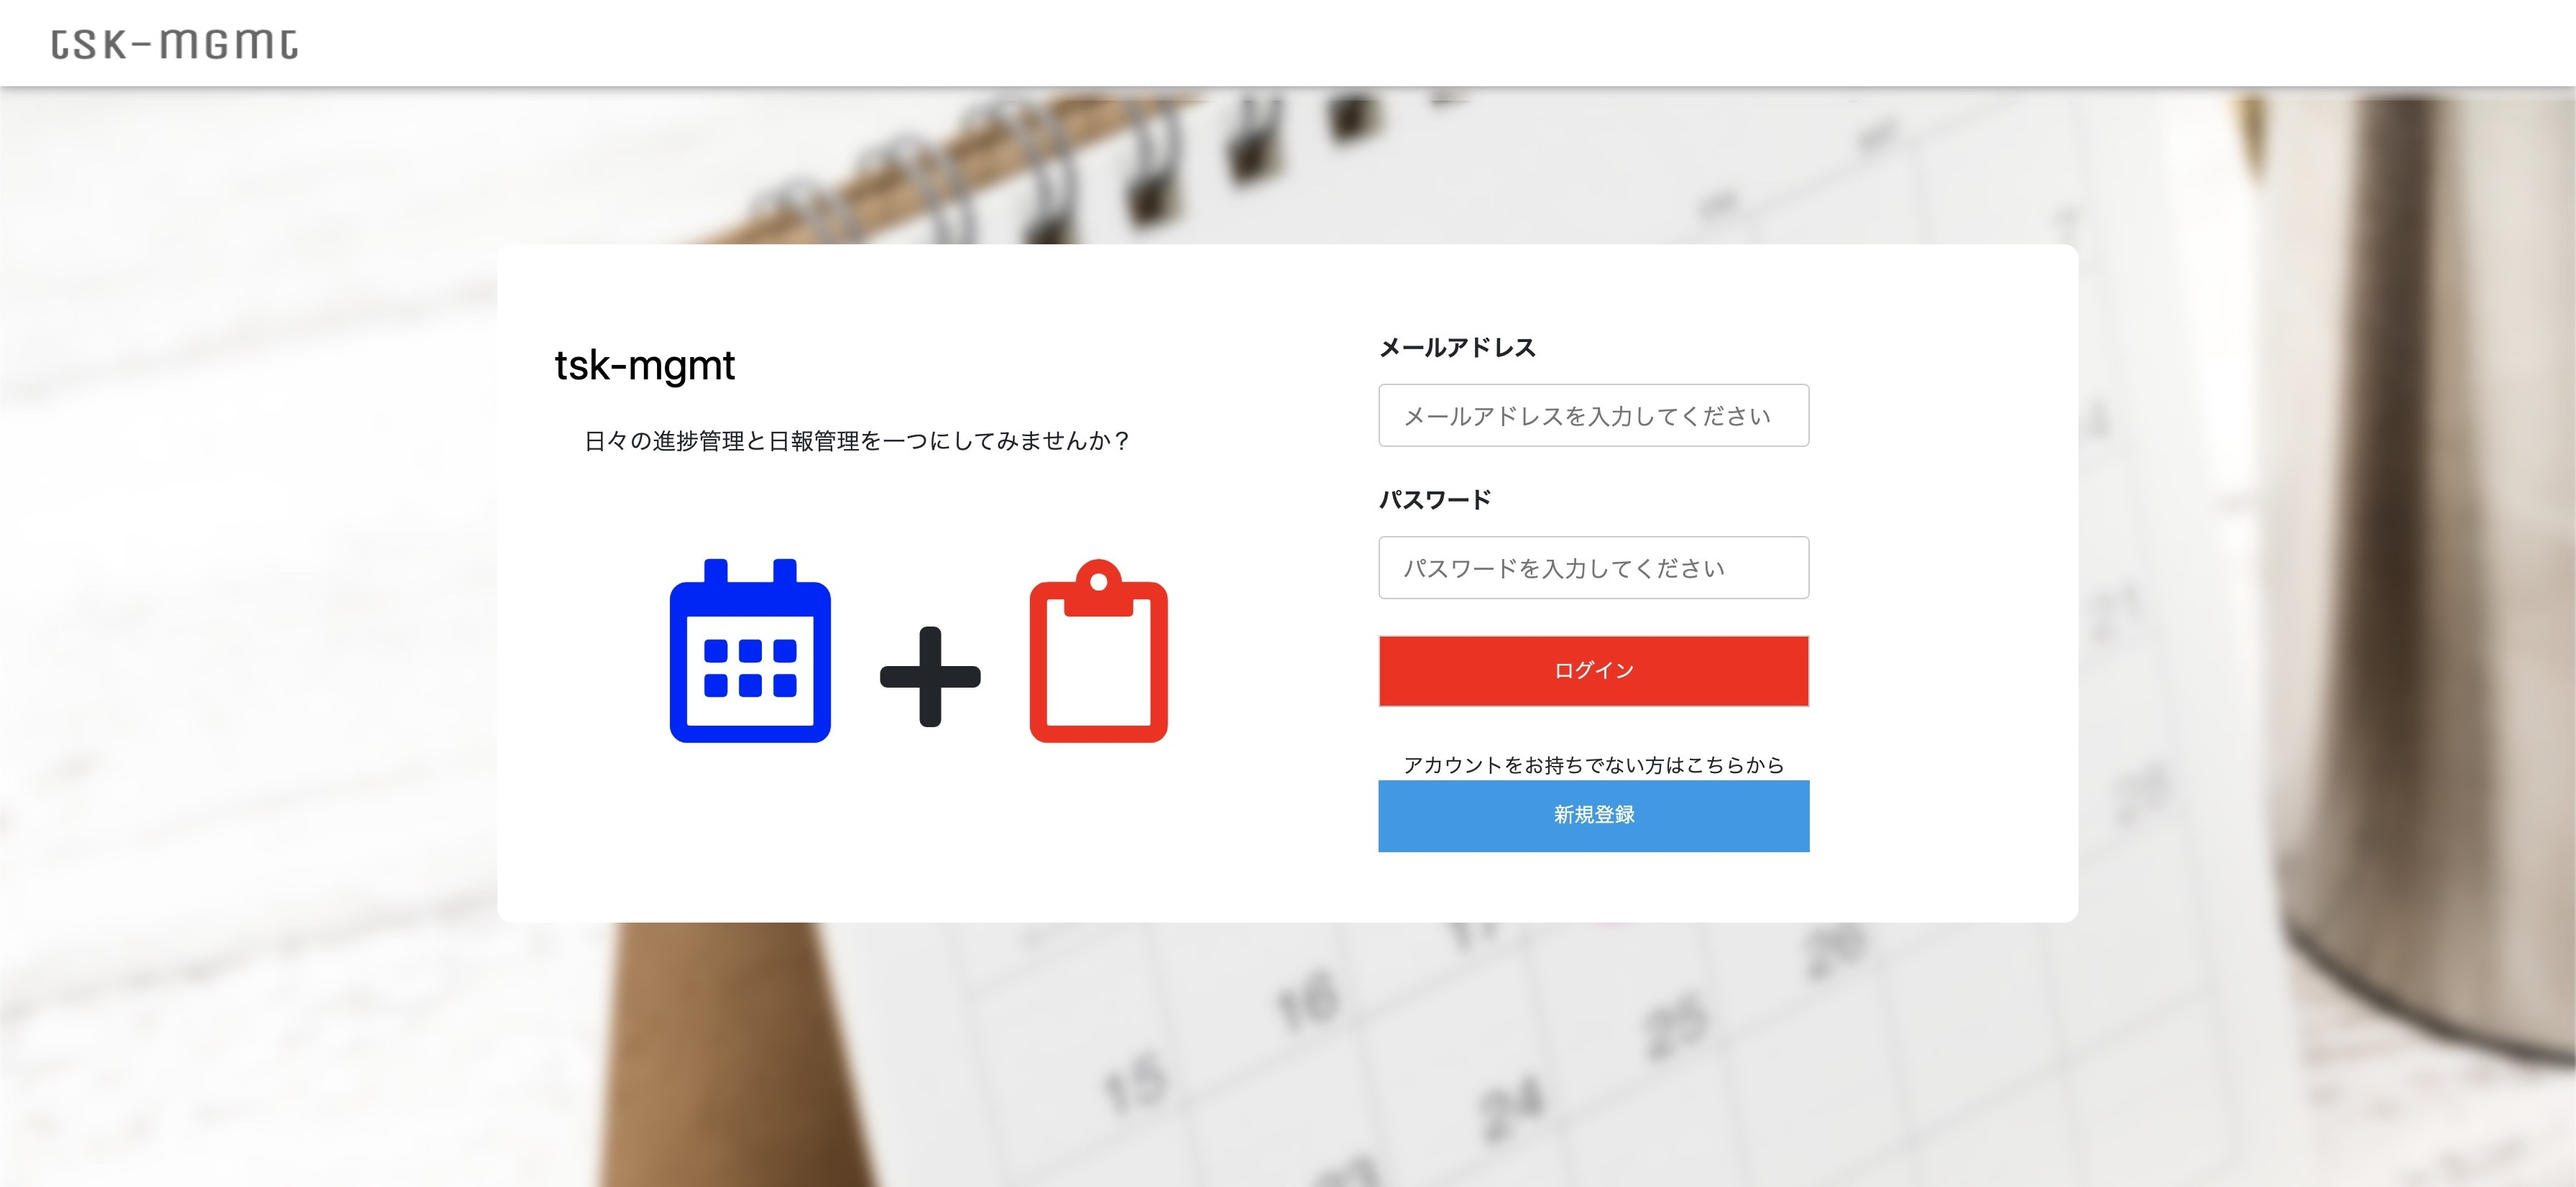
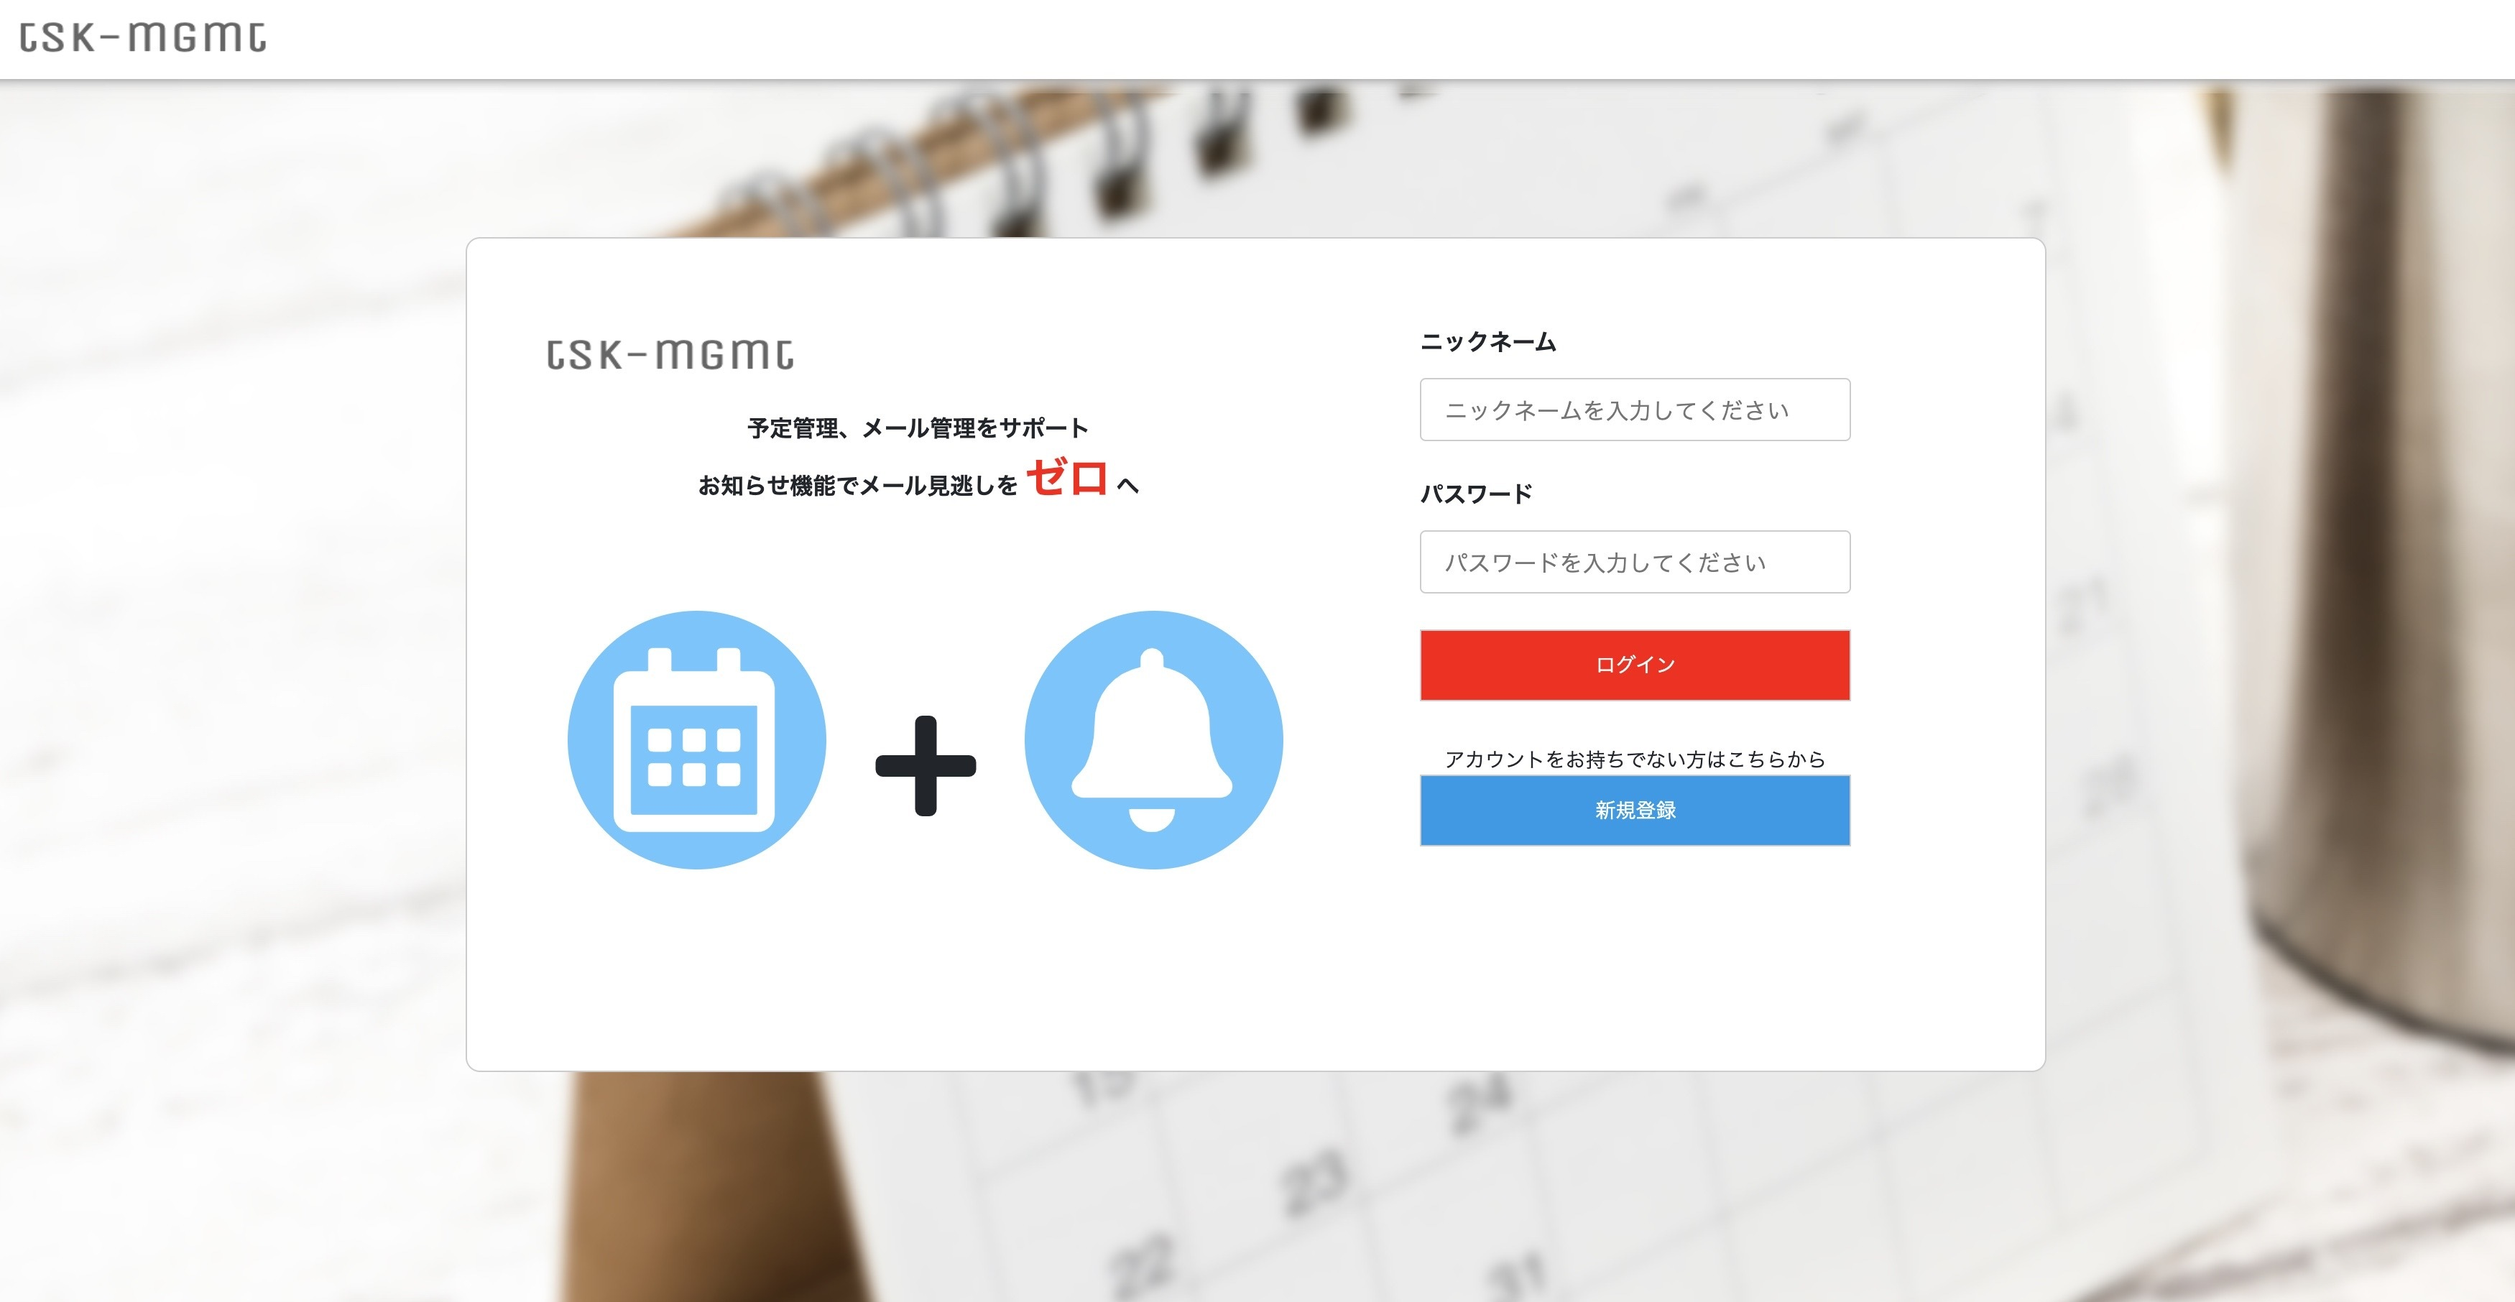
read.meの変更

diff --git a/README.md b/README.md
@@ -31,12 +31,12 @@ Ruby(ver2.5.1)
 URL先を開くとログインページが表示されます。  
 機能の参照だけ行いたい方はテストアカウントを用意しておりますので、以下情報でログインをお願いいたします。  
   
-テストアカウント①(ユーザー名:テスト太郎)  
-メールアドレス：test@gmail.com  
+テストアカウント①  
+ニックネーム：テスト太郎  
 パスワード：aaaaaaaa  
   
-テストアカウント②(ユーザー名:テスト花子)  
-メールアドレス：test@yahoo.co.jp  
+テストアカウント②  
+ニックネーム：テスト花子  
 パスワード：aaaaaaaa  
 ![トップページ](app/assets/images/explanation/機能説明_トップページ.jpg "機能説明_トップページ")  
   
@@ -71,6 +71,7 @@ URL先を開くとログインページが表示されます。
 **・日報管理ページ**  
 右上の日報管理ボタンをクリックしていただくと、日報の管理画面が開きます。  
 この画面では自分が送った日報(送信BOX)と、送られてきた日報(受信BOX)の確認ができます。  
+未読のメッセージについてはこちらで全てアラームで表示されます。
 ![日報管理](app/assets/images/explanation/機能説明_日報管理.jpg "機能説明_日報管理")  
 詳細を確認したい日報をクリックしていただくと、その日報の詳細画面が開きます。  
 日報のメッセージの欄で、送信者及び、受信者のメッセージのやり取りが可能でございます。  
